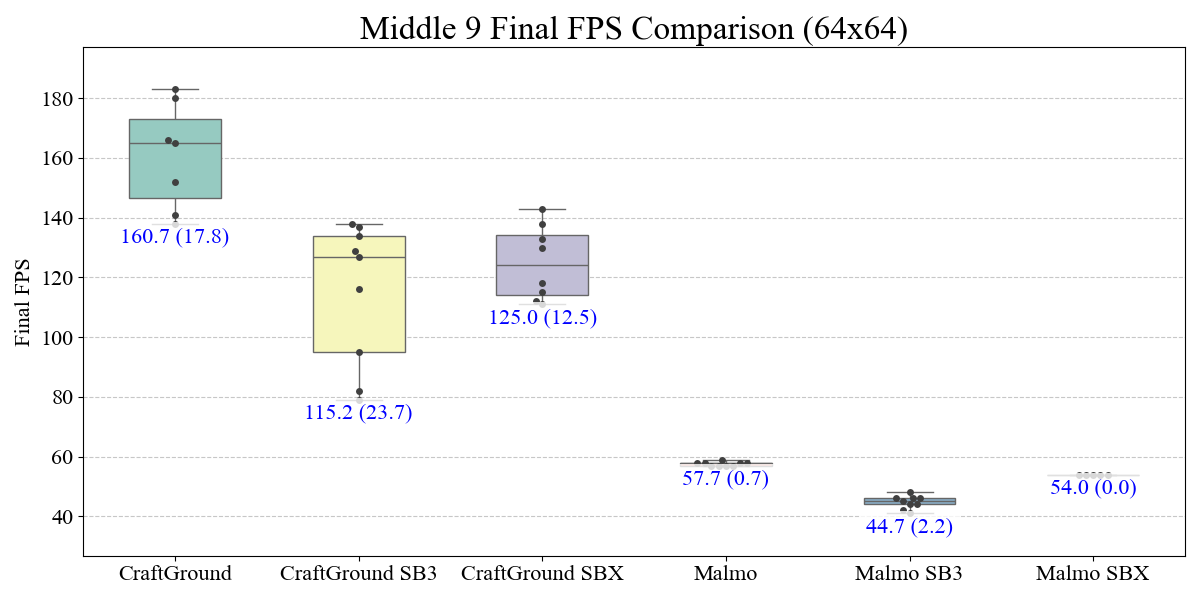
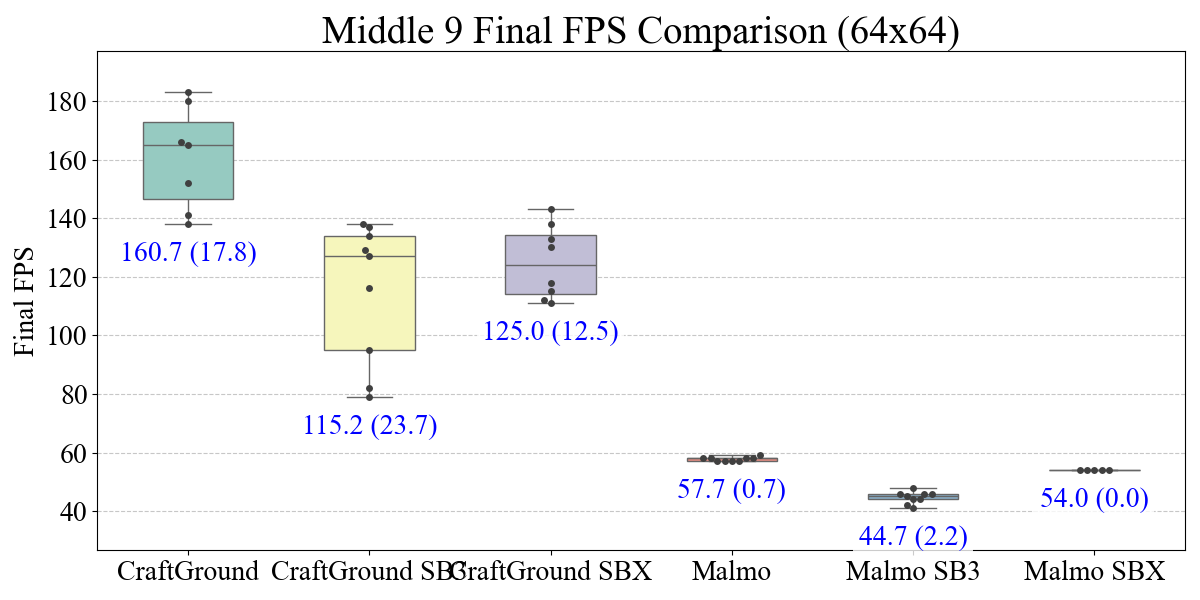
font

diff --git a/post_processing/group_fps.py b/post_processing/group_fps.py
@@ -3,7 +3,14 @@ from matplotlib import pyplot as plt
 import pandas as pd
 import seaborn as sns
 
-plt.rcParams["font.family"] = "Times New Roman"
+plt.rcParams.update(
+    {
+        "font.family": "Times New Roman",
+        "font.weight": "bold",
+        "axes.labelweight": "bold",
+        "axes.titleweight": "bold",
+    }
+)
 
 
 def select_middlek(df, k):
@@ -132,11 +139,11 @@ def group_fps_topk(
         color=".25",
     )
     title_text = "Middle" if use_middle else "Top"
-    plt.title(f"{title_text} {k} Final FPS Comparison (64x64)", fontsize=24)
-    plt.xlabel("", fontsize=16)
-    plt.ylabel("Final FPS", fontsize=16)
+    plt.title(f"{title_text} {k} Final FPS Comparison (64x64)", fontsize=28)
+    plt.xlabel("", fontsize=20)
+    plt.ylabel("Final FPS", fontsize=20)
     plt.xticks(fontsize=16)
-    plt.yticks(fontsize=16)
+    plt.yticks(fontsize=20)
     current_labels = selected_64x64["group"].unique()  # Get current group names
     plt.xticks(
         ticks=range(len(current_labels)),  # Number of indices = number of groups
@@ -146,10 +153,10 @@ def group_fps_topk(
         rotation=0,
         ha="center",
     )
-    plt.grid(axis="y", linestyle="--", alpha=0.7)
+    plt.grid(axis="y", linestyle="--", alpha=0.7, linewidth=2)
 
     y_min, y_max = plt.ylim()  # Get current y-axis range
-    offset = (y_max - y_min) * 0.04
+    offset = (y_max - y_min) * 0.08
     for i, group in enumerate(selected_64x64["group"].unique()):
         avg_fps = selected_64x64[selected_64x64["group"] == group]["time/fps"].mean()
         top_fps = selected_64x64[selected_64x64["group"] == group]["time/fps"].max()
@@ -160,14 +167,14 @@ def group_fps_topk(
             min_fps - offset,
             f"{avg_fps:.1f} ({std_fps:.1f})",
             ha="center",
-            fontsize=16,
+            fontsize=20,
             color="blue",
             bbox=dict(facecolor="white", alpha=0.8, edgecolor="none"),
         )
 
     plt.tight_layout()
     plt.margins(y=0.1)
-    plt.savefig(f"images/64x64-{title_text.lower()}{k}.png")
+    plt.savefig(f"images/64x64-{title_text.lower()}{k}.png", dpi=300)
     plt.show()
 
     # 640x360 Box Plot
@@ -185,11 +192,11 @@ def group_fps_topk(
         y="time/fps",
         color=".25",
     )
-    plt.title(f"{title_text} {k} Final FPS Comparison (640x360)", fontsize=24)
-    plt.xlabel("", fontsize=16)
-    plt.ylabel("Final FPS", fontsize=16)
+    plt.title(f"{title_text} {k} Final FPS Comparison (640x360)", fontsize=28)
+    plt.xlabel("", fontsize=20)
+    plt.ylabel("Final FPS", fontsize=20)
     plt.xticks(fontsize=16)
-    plt.yticks(fontsize=16)
+    plt.yticks(fontsize=20)
     current_labels = selected_640x360["group"].unique()  # Get current group names
     plt.xticks(
         ticks=range(len(current_labels)),  # Number of indices = number of groups
@@ -199,10 +206,10 @@ def group_fps_topk(
         rotation=0,
         ha="center",
     )
-    plt.grid(axis="y", linestyle="--", alpha=0.7)
+    plt.grid(axis="y", linestyle="--", alpha=0.7, linewidth=2)
 
     y_min, y_max = plt.ylim()  # Get current y-axis range
-    offset = (y_max - y_min) * 0.04
+    offset = (y_max - y_min) * 0.08
     for i, group in enumerate(selected_640x360["group"].unique()):
         avg_fps = selected_640x360[selected_640x360["group"] == group][
             "time/fps"
@@ -215,13 +222,13 @@ def group_fps_topk(
             min_fps - offset,
             f"{avg_fps:.1f} ({std_fps:.1f})",
             ha="center",
-            fontsize=16,
+            fontsize=20,
             color="blue",
             bbox=dict(facecolor="white", alpha=0.8, edgecolor="none"),
         )
     plt.tight_layout()
     plt.margins(y=0.1)
-    plt.savefig(f"images/640x360-{title_text.lower()}{k}.png")
+    plt.savefig(f"images/640x360-{title_text.lower()}{k}.png", dpi=300)
     plt.show()
 
     # Return grouped dictionary
